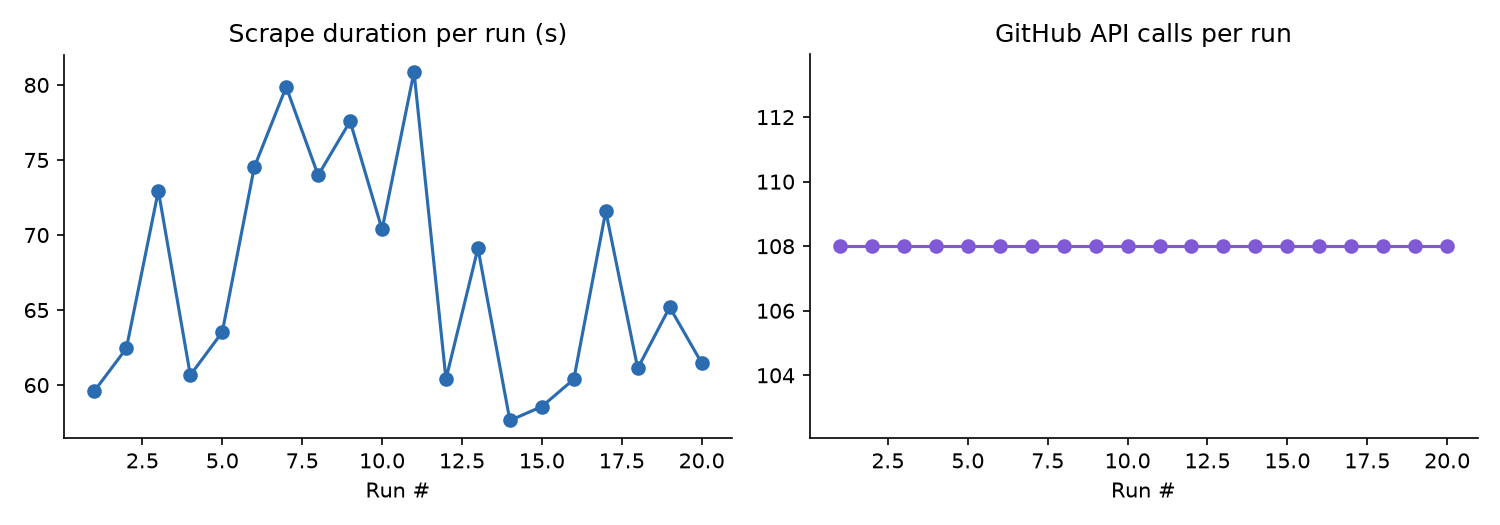
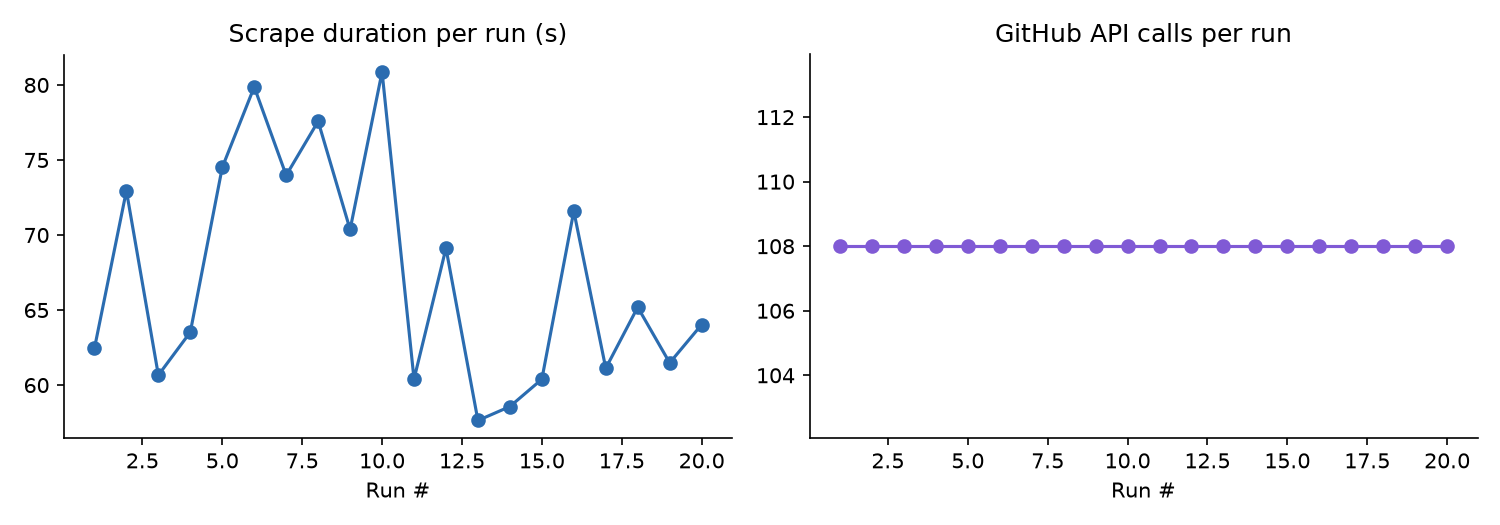
Weekly issue tracker refresh

Changed region(s): [[0.2453, 0.3962, 0.4907, 0.8229], [0.1227, 0.1219, 0.3067, 0.4571], [0.0613, 0.3352, 0.1533, 0.7619]]

diff --git a/README.md b/README.md
@@ -81,7 +81,7 @@ See [CONTRIBUTING.md](CONTRIBUTING.md) for the full contributor workflow — inc
 
 <!-- TRACKER:START -->
 
-_Last updated: 2026-08-05 09:49 UTC_
+_Last updated: 2026-08-05 11:47 UTC_
 
 _Tracking **18** upstream repos, **381** relevant open issues._
 
@@ -137,12 +137,12 @@ _Tracking **18** upstream repos, **381** relevant open issues._
 
 | Score | Issue | Labels | Comments | Updated |
 |---|---|---|---|---|
+| ★★☆☆☆ | [#87359](https://github.com/ansible/ansible/issues/87359) 2.20 hostvars undefined | needs_triage, bug | 1 | 2026-08-05 |
 | ★★☆☆☆ | [#87358](https://github.com/ansible/ansible/issues/87358) Delegated host address missing from host label for all loop items after the first (regression in 2.21) | needs_triage, bug, affects_2.21 | 1 | 2026-08-05 |
 | ★★☆☆☆ | [#87178](https://github.com/ansible/ansible/issues/87178) Regresssion: "'item' is undefined" if using delegate_to with with_items | needs_info, bug, affects_2.21 | 6 | 2026-08-04 |
 | ★★☆☆☆ | [#85147](https://github.com/ansible/ansible/issues/85147) apt will fail when package pinned with high pin priority | module, bug, affects_2.19 | 2 | 2026-08-04 |
 | ★★☆☆☆ | [#85780](https://github.com/ansible/ansible/issues/85780) ansible.builtin.uri does not return `.cookies`/`.cookies_string` unless following redirects | module, bug, has_pr, verified, affects_2.19 | 2 | 2026-08-03 |
 | ★★☆☆☆ | [#79293](https://github.com/ansible/ansible/issues/79293) combine(.. , list_merge='append') filter does not work correctly with two equivalent vars | bug, has_pr, P3, affects_2.11 | 2 | 2026-08-03 |
-| ★★☆☆☆ | [#87323](https://github.com/ansible/ansible/issues/87323) Inventory toml output fail with TypeError: Object of type 'NoneType' is not TOML serializable | bug, has_pr | 4 | 2026-08-02 |
 | ★☆☆☆☆ | [#85539](https://github.com/ansible/ansible/issues/85539) Improve message for ansible_managed option deprecation | has_pr, feature | 6 | 2026-08-04 |
 | ★☆☆☆☆ | [#64016](https://github.com/ansible/ansible/issues/64016) ansible 2.8.6 get_url repeatedly downloads file with force==no | easyfix, module, bug, has_pr, affects_2.8, P3 | 35 | 2026-08-03 |
 
@@ -289,7 +289,7 @@ _Tracking **18** upstream repos, **381** relevant open issues._
 
 <!-- METRICS:START -->
 
-_Last run: 2026-08-05 09:48 UTC, took **61.5s**, **108** GitHub API calls, **4892/5000** rate limit remaining._
+_Last run: 2026-08-05 11:46 UTC, took **64.0s**, **108** GitHub API calls, **4892/5000** rate limit remaining._
 
 ![Scrape metrics trend](assets/metrics_trend.png)
 
